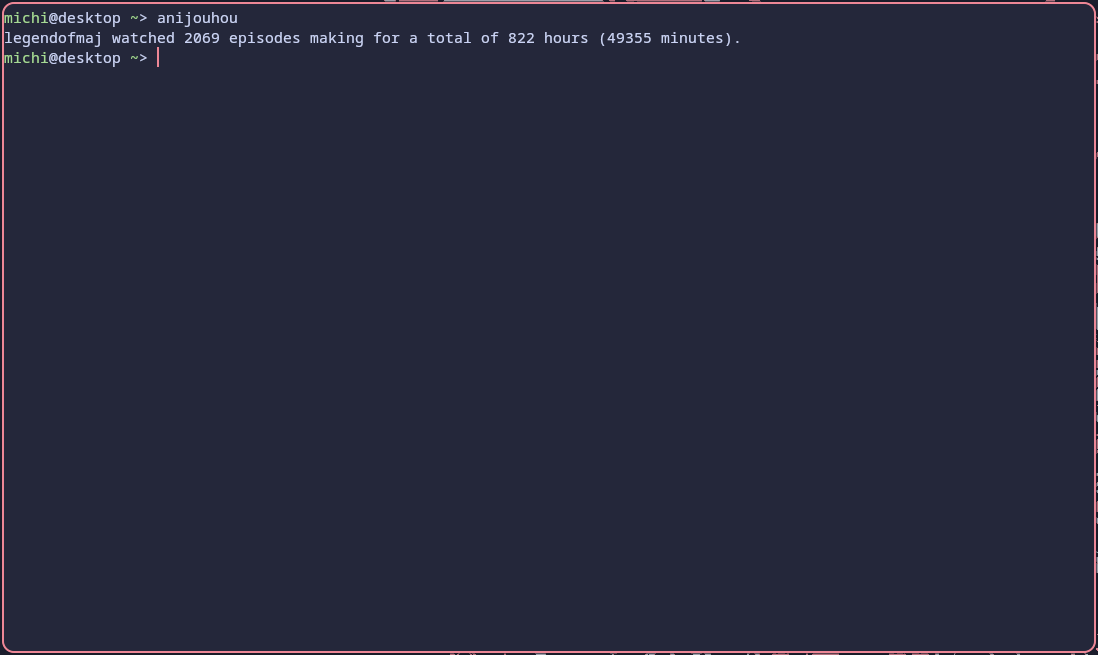
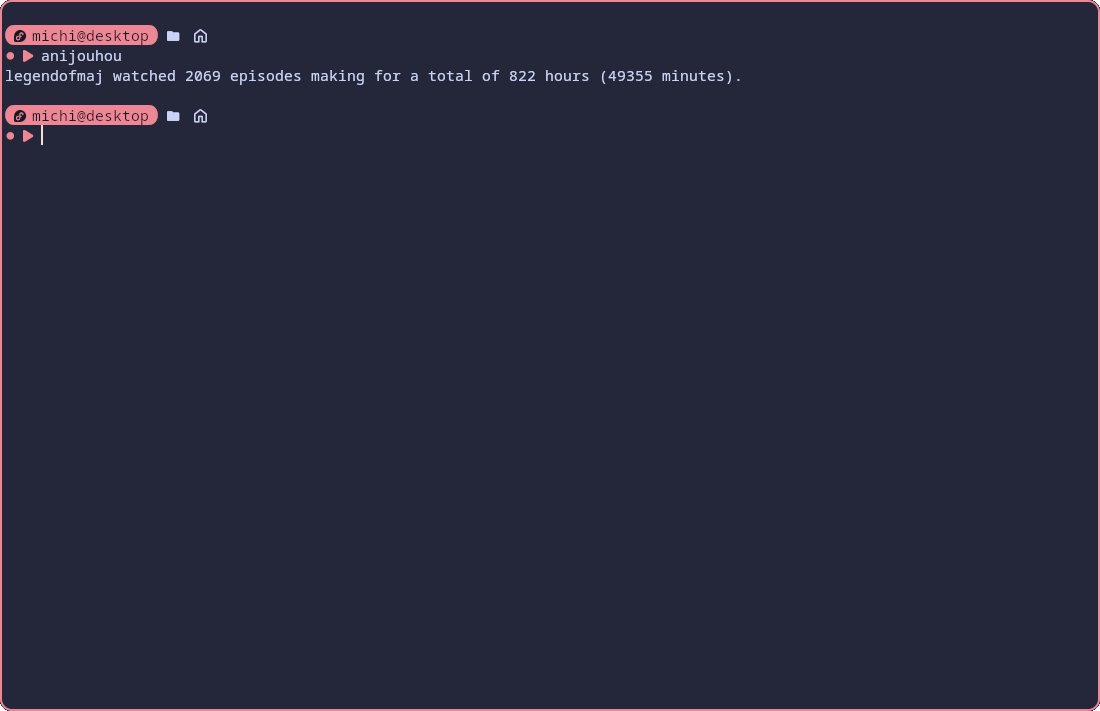
feat(README): new screenshots, section detailing usage

Changed region(s): [[0.0, 0.0, 1.0, 1.0]]

diff --git a/README.md b/README.md
@@ -1,8 +1,17 @@
 # About
 Terminal application written in Rust that displays the total amount of time spent watching anime by fetching data from [anilist](https://anilist.co/).
 
-# Screenshot
-<img height="375" alt="anijouhou running in kitty." src="res/anijouhou.png" />
+# Screenshots
+| [anijouhou](https://github.com/legendofmaj/anijouhou/releases) | [anijouhou with fastfetch](https://github.com/fastfetch-cli/fastfetch) |
+| :-----------------------------------------------------------:  | :--------------------------------------------------------------------: |
+| <img src="res/anijouhou.png" width="400"/>                     | <img src="res/fastfetch_anijouhou.png" width="400"/>                   |
+
+# Usage
+- Basic usage: `anijouhou`
+- Delete user data directory: `anijouhou -d` or `anijouhou --delete`
+- Get only total watchtime hours: `anijouhou -h` or `anijouhou --hours`
+- Get only total watchtime in minutes: `anijouhou -m` or `anijouhou --minutes`
+- Get only total amount of episodes watched: `anijouhou -e` or `anijouhou --episodes`
 
 # Installation
 Download the latest release from the [release page](https://github.com/legendofmaj/anijouhou/releases) <br>
